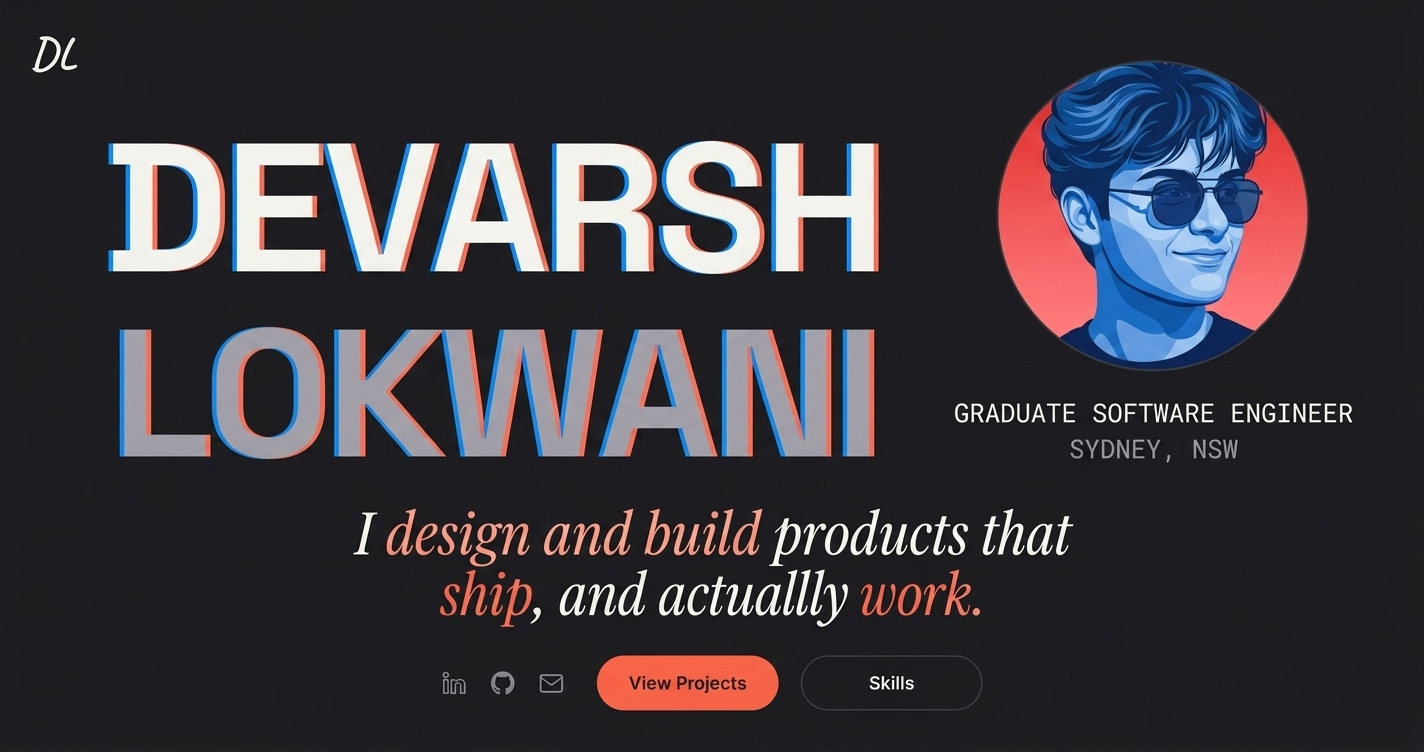
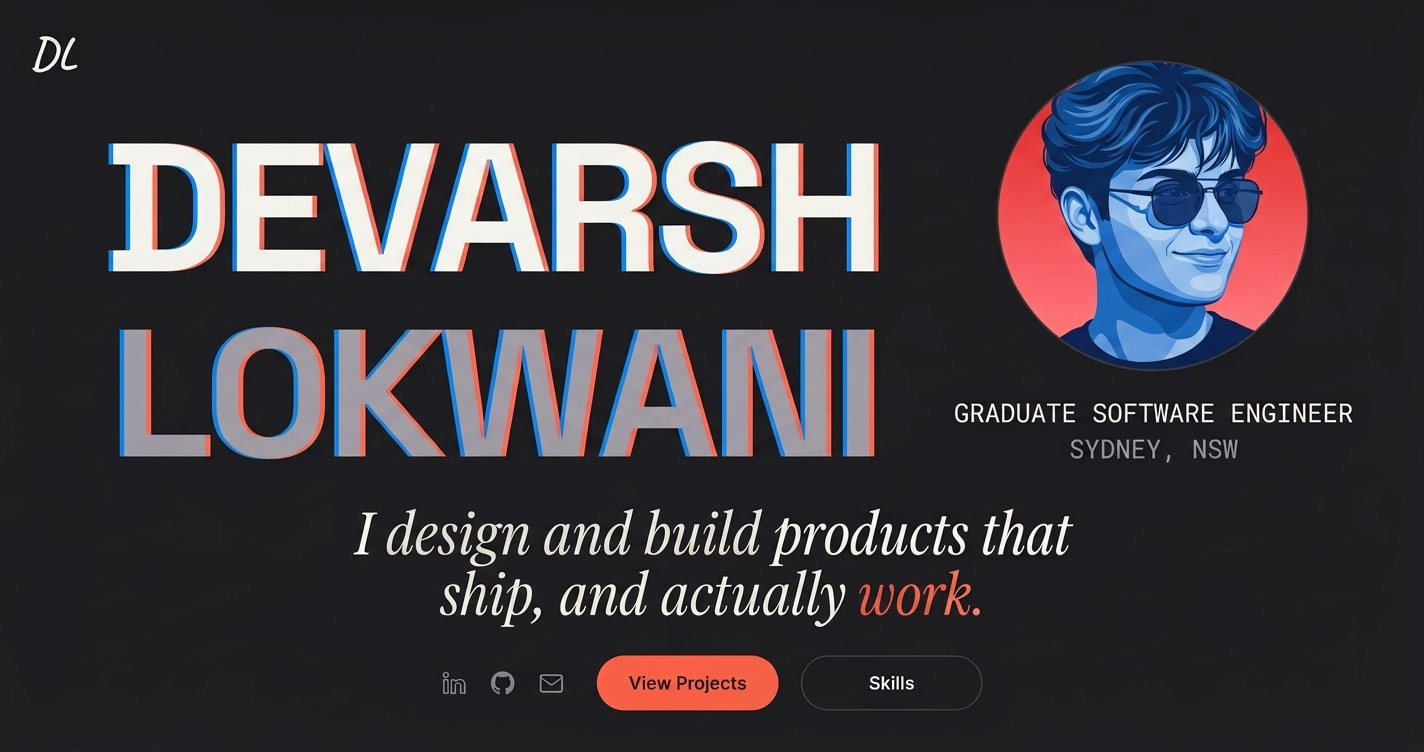
bug fixed during smoke testing

Changed region(s): [[0.2472, 0.6729, 0.6798, 0.8258]]

diff --git a/src/components/ui/NavLink.tsx b/src/components/ui/NavLink.tsx
@@ -1,4 +1,4 @@
-import { useEffect, useRef } from 'react'
+import { useCallback, useEffect, useRef } from 'react'
 
 import { SURFACE_SHEEN } from '@/components/ui/gradients'
 import { gsap } from '@/lib/gsap'
@@ -71,6 +71,24 @@ export function NavLink({
   const lastStartedAt = useRef(0)
   const pendingTimeout = useRef<ReturnType<typeof setTimeout> | null>(null)
 
+  /**
+   * Puts back the two things only the click flourish ever touches.
+   *
+   * The fill's background colour and the on-fill label's vertical roll are
+   * animated by that timeline alone, and restored by its own last two steps.
+   * The hover animation below never sets either, so when it kills the
+   * flourish mid-flight (a click, then the pointer leaving before the roll
+   * finishes) GSAP froze both wherever they had got to and nothing ever put
+   * them back: the pill kept an inline accent background for good, and the
+   * label kept a vertical offset that was invisible only until the next fill
+   * set its opacity back to 1, at which point the text appeared outside the
+   * pill it belongs to.
+   */
+  const clearFlourish = useCallback(() => {
+    if (fillRef.current) gsap.set(fillRef.current, { clearProps: 'backgroundColor' })
+    if (fillTextRef.current) gsap.set(fillTextRef.current, { yPercent: 0 })
+  }, [])
+
   useEffect(() => {
     const fill = fillRef.current
     const fillText = fillTextRef.current
@@ -83,6 +101,10 @@ export function NavLink({
       appliedFilled.current = isFilled
       lastStartedAt.current = performance.now()
       timelineRef.current?.kill()
+      // Whatever the killed timeline was mid-way through, this animation is
+      // the one in charge now, and it only knows how to drive the fill and
+      // the horizontal slide.
+      clearFlourish()
       const tl = gsap.timeline()
       timelineRef.current = tl
 
@@ -107,6 +129,7 @@ export function NavLink({
     }
 
     if (!mounted.current) {
+      clearFlourish()
       gsap.set(fill, { clipPath: filled ? REVEALED_CLIP : HIDDEN_CLIP })
       gsap.set(fillText, { xPercent: filled ? 0 : -130, opacity: filled ? 1 : 0 })
       gsap.set(defaultText, { xPercent: filled ? 130 : 0, opacity: filled ? 0 : 1 })
@@ -140,7 +163,7 @@ export function NavLink({
         }
       }, MIN_HOLD_MS - elapsed)
     }
-  }, [filled])
+  }, [filled, clearFlourish])
 
   useEffect(
     () => () => {
@@ -163,7 +186,9 @@ export function NavLink({
     const defaultText = defaultTextRef.current
     if (fill && fillText && defaultText) {
       timelineRef.current?.kill()
-      const tl = gsap.timeline()
+      // Killed before it finishes, its last two steps never run, so it puts
+      // its own two properties back on the way out instead.
+      const tl = gsap.timeline({ onInterrupt: clearFlourish })
       timelineRef.current = tl
 
       // GSAP's color interpolation can't parse a raw `var(--x)` reference

diff --git a/src/components/ui/Nav.tsx b/src/components/ui/Nav.tsx
@@ -65,8 +65,20 @@ export function Nav() {
   // just whichever one points at the page you are on, which is a fact about
   // the URL and needs no state at all.
   const routeIndex = LINKS.findIndex((l) => l.kind === 'route' && l.to === location.pathname)
+
+  /**
+   * Nothing is lit from here while a click is still on its way.
+   *
+   * A route click records its reading against the page it is heading to, so
+   * between the click and the location catching up the reading and the URL
+   * disagree. Falling back to the URL in that gap kept the link for the page
+   * being *left* lit, and since the wipe does not cover the nav for its first
+   * frames, both links were visibly on at once. The URL is only worth
+   * consulting when the two agree; while they disagree the clicked link
+   * already lights itself from its own click flourish.
+   */
   const activeIndex =
-    (spy.path === location.pathname ? spy.index : null) ?? (routeIndex === -1 ? null : routeIndex)
+    spy.path === location.pathname ? spy.index ?? (routeIndex === -1 ? null : routeIndex) : null
 
   /**
    * Records a reading against the page it was taken on. Memoised on the
